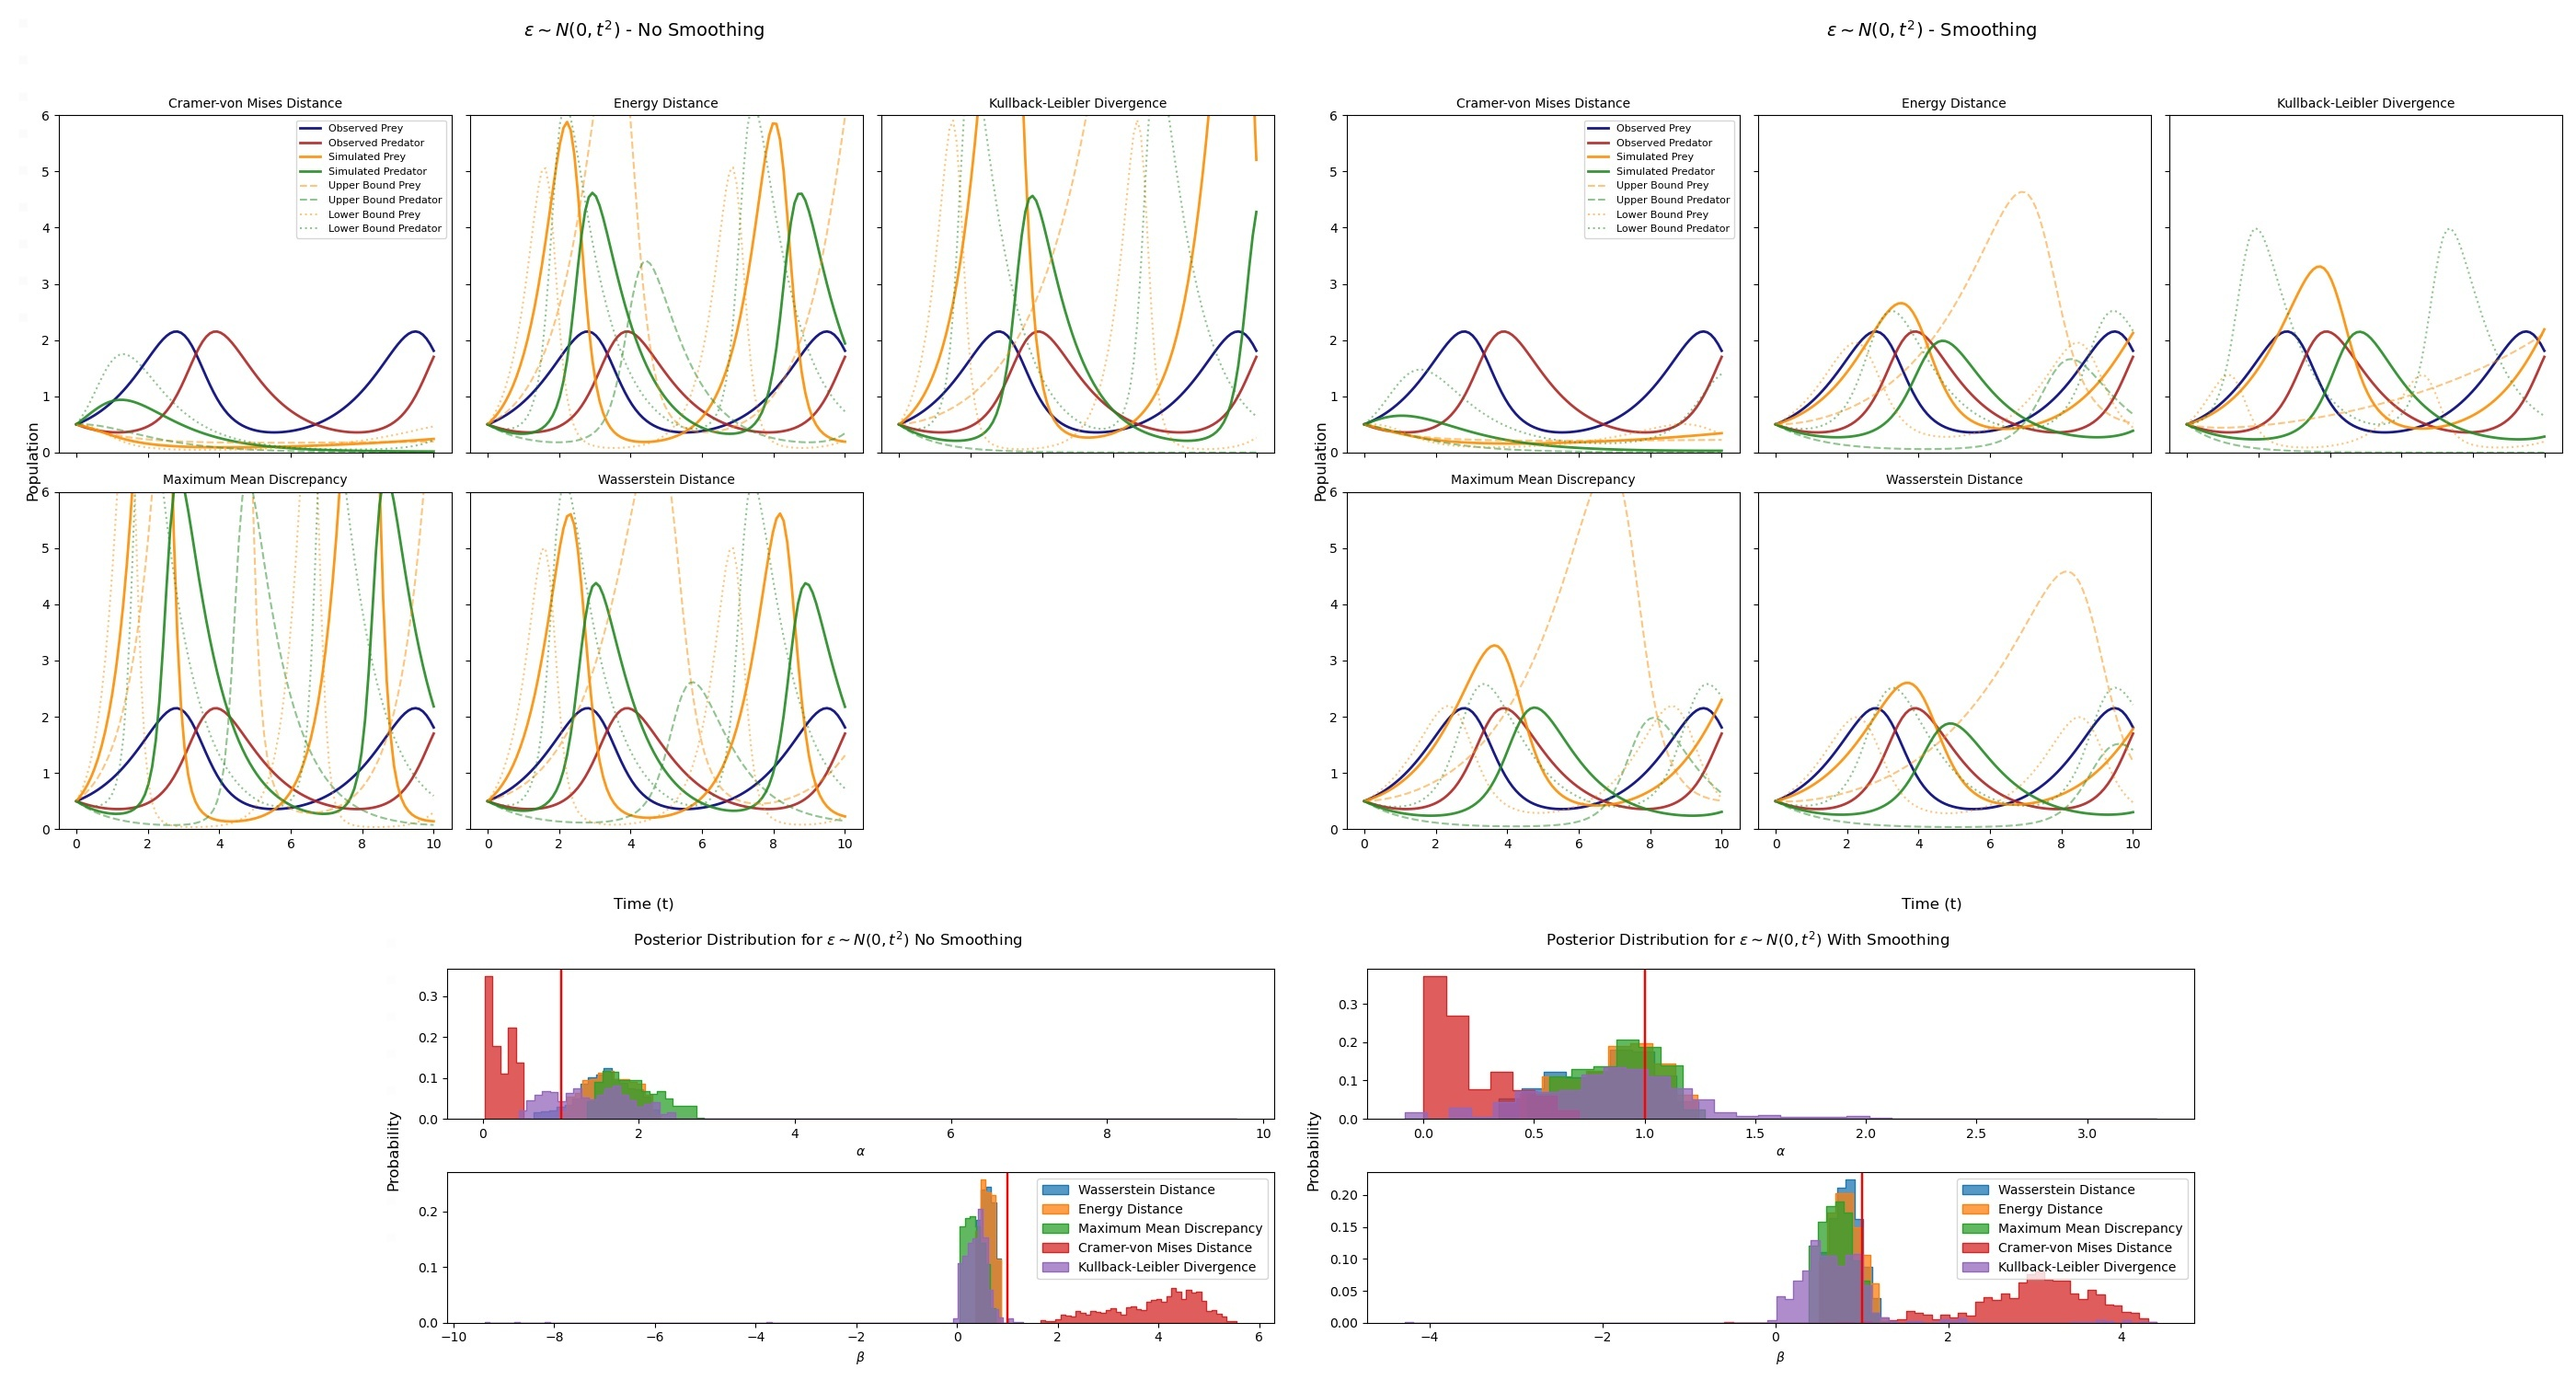
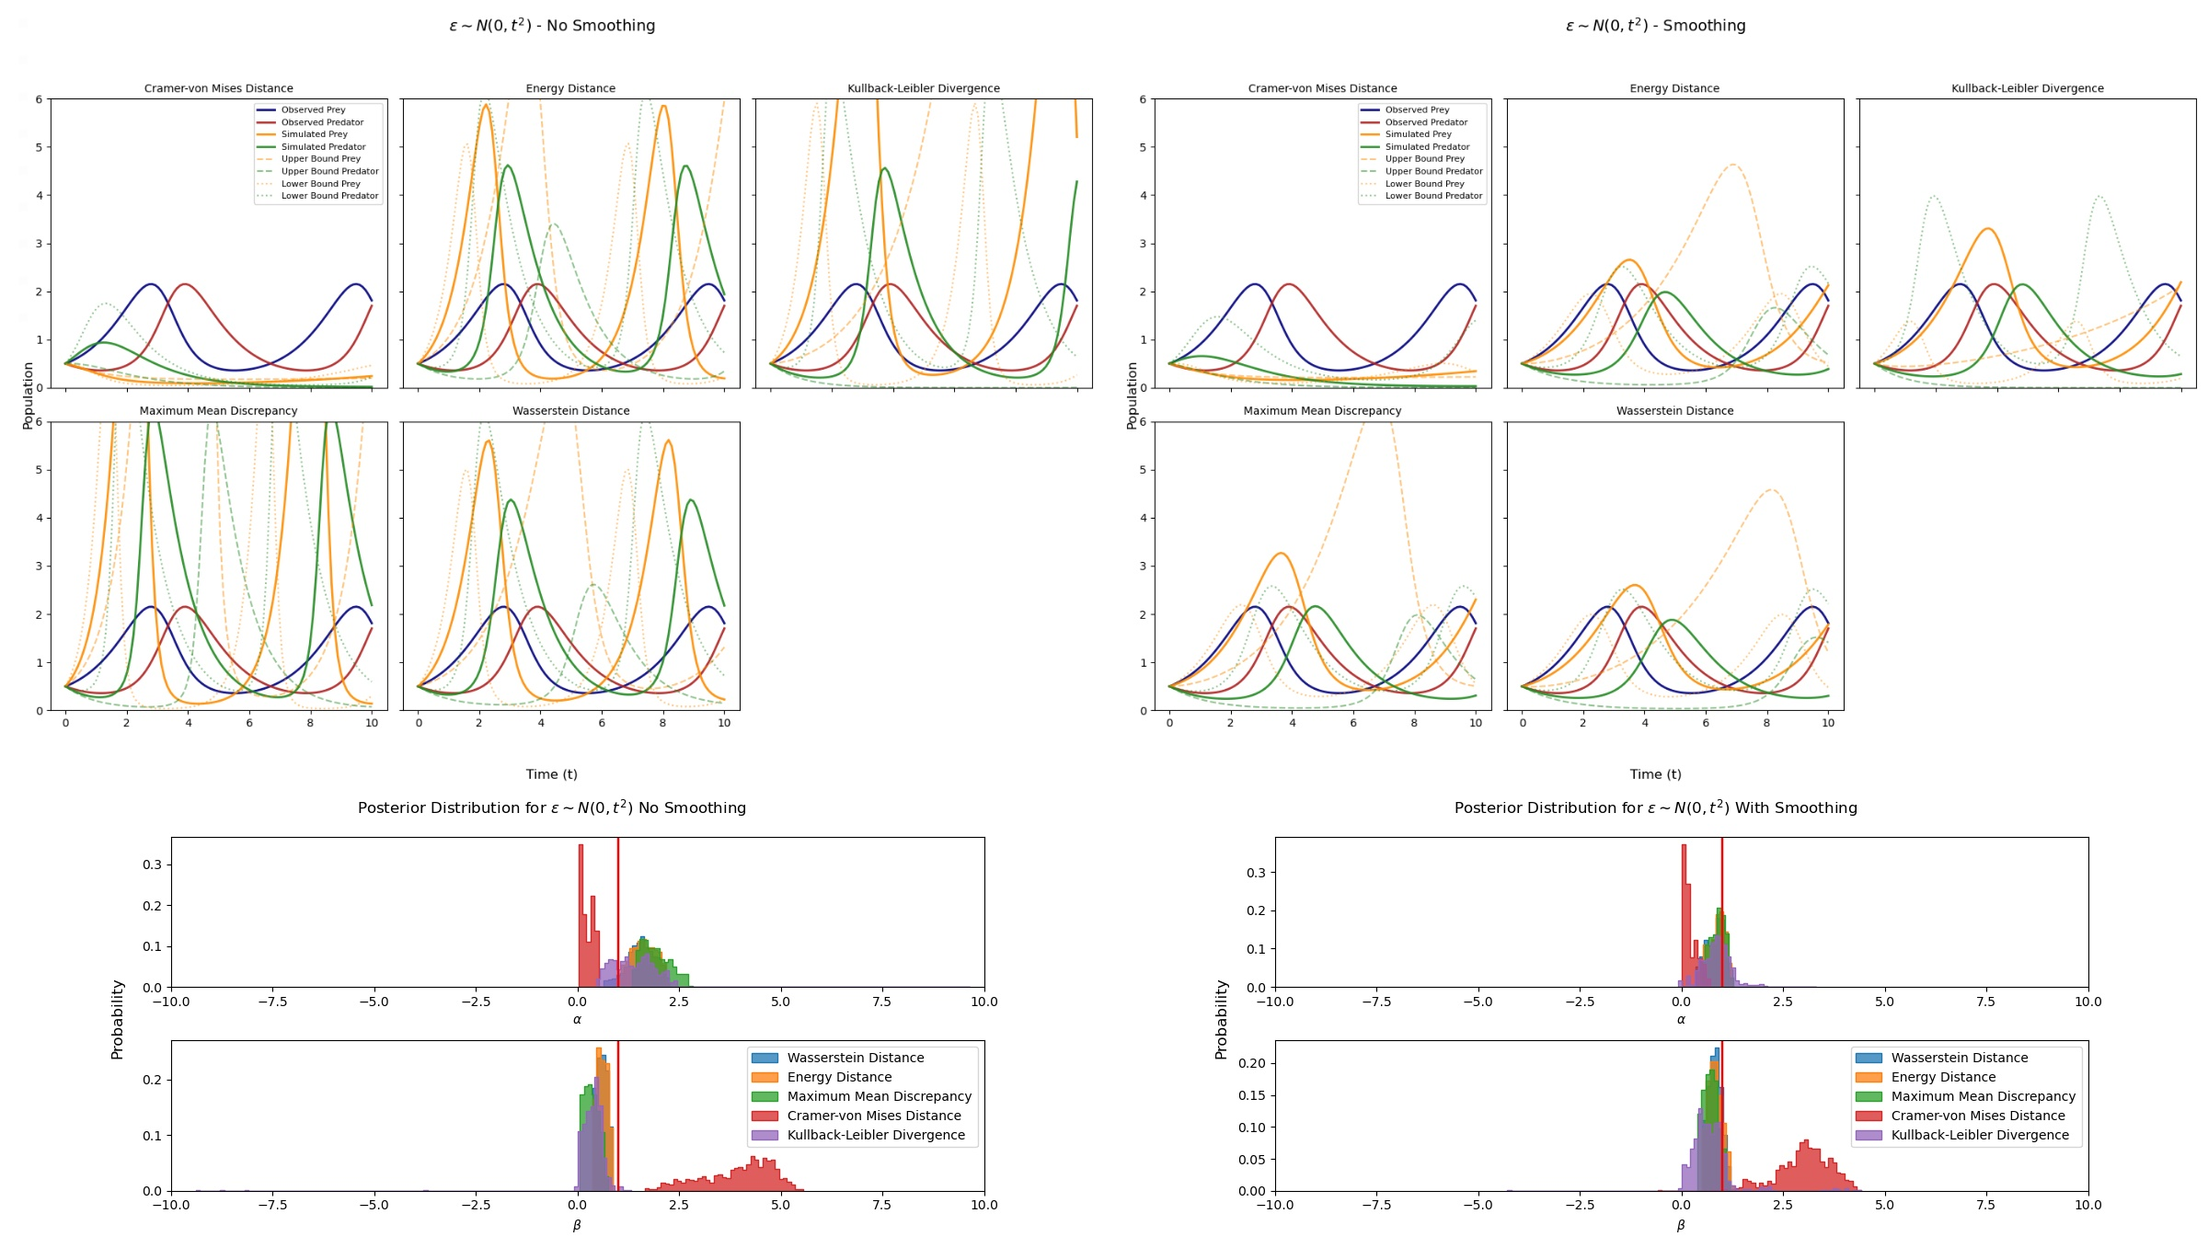
modified run posterior distribution plots in lv.

diff --git a/gaussian_plume/run_posterior_dist.py b/gaussian_plume/run_posterior_dist.py
@@ -61,7 +61,10 @@ if __name__ == "__main__":
                     linestyle=linestyles[metric]
                 )
             ax[i].axvline(true_val, color='red', linestyle='--', linewidth=2.0, label="True Value" if i == 0 else "")
-            ax[i].set_xlim(xmin, xmax)
+            if i == 2:
+                ax[i].set_xlim(0, 1e-4)
+            else:
+                ax[i].set_xlim(0, 1)
             ax[i].set_xlabel(PARAMS[i])
             ax[i].set_ylabel("Probability")
             ax[i].grid(True)

diff --git a/lotka_volterra/run_posterior_dist.py b/lotka_volterra/run_posterior_dist.py
@@ -31,6 +31,8 @@ for model in models:
         ax[1].set_xlabel(r"$\beta$")
         ax[0].set_ylabel("")
         ax[1].set_ylabel("")
+        ax[0].set_xlim(-10, 10) # Set the x lim to be prior
+        ax[1].set_xlim(-10, 10)
     
     model_name = model.split("_")
     model_noise = model_name[0][1:len(model_name[0])]
